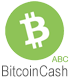
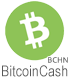
Version 1.6.3
Support Bitcoin Cash BCHN - https://bitcoincashnode.org

Changed region(s): [[0.6571, 0.7, 0.9714, 0.8]]

diff --git a/js/_source/support.js b/js/_source/support.js
@@ -4,7 +4,7 @@
 	* @category    Javascript
 	* @website     https://gourl.io   
 	* @api         https://gourl.io/api.html     
-	* @version     2.2.1
+	* @version     2.2.2
 	*/
 	
 	/**

diff --git a/js/_source/cryptobox.js b/js/_source/cryptobox.js
@@ -4,7 +4,7 @@
 	* @category    Javascript
 	* @website     https://gourl.io
 	* @api         https://gourl.io/api.html
-	* @version     2.2.1
+	* @version     2.2.2
 	*/
 
 	/**

diff --git a/gourl_wordpress.php b/gourl_wordpress.php
@@ -3,7 +3,7 @@
 Plugin Name: 		GoUrl Bitcoin Payment Gateway & Paid Downloads & Membership
 Plugin URI: 		https://gourl.io/bitcoin-wordpress-plugin.html
 Description: 		Official <a href="https://gourl.io">GoUrl.io</a> Bitcoin Payment Gateway for Wordpress. White Label Solution. Provides bitcoin/altcoin payment gateways for - WooCommerce, Paid Memberships Pro, bbPress, Give Donations, Pay-Per-View, Pay-Per-Download, etc. Accept Bitcoin, BitcoinCash, BitcoinSV, Litecoin, Dash, Dogecoin, etc payments online. No Chargebacks, Global, Secure.  All in automatic mode.
-Version: 		1.6.2
+Version: 		1.6.3
 Author: 		GoUrl.io
 Author URI: 		https://gourl.io
 WC requires at least: 	2.1.0
@@ -33,7 +33,7 @@ $dir_arr = wp_upload_dir();
 
 DEFINE('GOURL', 				"gourl");
 DEFINE('GOURL_PREVIEW', 		"gourladmin");
-DEFINE('GOURL_VERSION', 		"1.6.2");
+DEFINE('GOURL_VERSION', 		"1.6.3");
 DEFINE('GOURL_ADMIN', 			admin_url("admin.php?page="));
 DEFINE('GOURL_DIR',  			$dir_arr["basedir"]."/".GOURL.'/');
 DEFINE('GOURL_DIR2', 			$dir_arr["baseurl"]."/".GOURL.'/');

diff --git a/gourl.php b/gourl.php
@@ -1292,9 +1292,9 @@ final class gourlclass
 		foreach ($this->coin_names as $k => $v)
 		{
 			$v2 = ucfirst($v);
-			if ($v2 == "Bitcoincash") $v2 = "Bitcoin Cash ABC";
+			if ($v2 == "Bitcoincash") $v2 = "Bitcoin Cash BCH";
 			if ($v2 == "Bitcoinsv")   $v2 = "Bitcoin SV";
-			if ($k == "BCH") $k .= "/BCHABC";
+			if ($k == "BCH") $k .= "/BCHN";
 			if ($k == "BSV") $k .= "/BCHSV";
 
 			$tmp .= '<tr><th>'.$v2.' '.__('Payments', GOURL).':<br><a target="_blank" href="'.$this->coin_www[$v].'"><img title="'.$v2.' Payment API" src="'.plugins_url('/images/'.$v.'.png', __FILE__).'" border="0"></a></th>';
@@ -8677,5 +8677,5 @@ function gourl_altcoin_btc_price ($altcoin, $interval = 1)
     }
 
 
-    return 0;       
+    return 0;         
 }

diff --git a/includes/cryptobox.class.php b/includes/cryptobox.class.php
@@ -15,7 +15,7 @@
  * @example     https://gourl.io/lib/examples/example_customize_box.php    <----
  * @gitHub  	https://github.com/cryptoapi/Payment-Gateway
  * @license 	Free GPLv2
- * @version     2.2.1
+ * @version     2.2.2
  *
  *
  *  CLASS CRYPTOBOX - LIST OF METHODS:
@@ -82,7 +82,7 @@ if (!CRYPTOBOX_WORDPRESS) { // Pure PHP
 elseif (!defined('ABSPATH')) exit; // Wordpress
 
 
-define("CRYPTOBOX_VERSION", "2.2.1");
+define("CRYPTOBOX_VERSION", "2.2.2");
 
 // GoUrl supported crypto currencies
 define("CRYPTOBOX_COINS", json_encode(array('bitcoin', 'bitcoincash', 'bitcoinsv', 'litecoin', 'dash', 'dogecoin', 'speedcoin', 'reddcoin', 'potcoin', 'feathercoin', 'vertcoin', 'peercoin', 'monetaryunit', 'universalcurrency')));

diff --git a/includes/cryptobox.callback.php b/includes/cryptobox.callback.php
@@ -11,7 +11,7 @@
  * @copyright   2014-2020 Delta Consultants
  * @category    Libraries
  * @website     https://gourl.io
- * @version     2.2.1
+ * @version     2.2.2
  *
  *
  * This file processes call-backs from Cryptocoin Payment Box server when new payment
@@ -150,6 +150,6 @@ else
 	$box_status = "Only POST Data Allowed";
 
 
-	echo $box_status; // don't delete it      
+	echo $box_status; // don't delete it     
 
 ?>

diff --git a/readme.md b/readme.md
@@ -2,7 +2,7 @@
 GoUrl Bitcoin Payment Gateway & Paid Downloads & Membership
 -----------------------------------------------------------  
 
-Version 1.6.2
+Version 1.6.3
 
 
 **GoUrl Official Bitcoin/Altcoin Payment Gateway for Wordpress 3.5 or higher version**
@@ -16,8 +16,8 @@ Accept Bitcoin, BitcoinCash, BitcoinSV, Litecoin, Dash, Dogecoin, Speedcoin, Red
 * Screenshots - [https://gourl.io/bitcoin-wordpress-plugin.html#screenshot](https://gourl.io/bitcoin-wordpress-plugin.html#screenshot)
 * Instruction - [https://tishonator.com/blog/how-to-add-bitcoin-payment-to-your-woocommerce-store](https://tishonator.com/blog/how-to-add-bitcoin-payment-to-your-woocommerce-store)
 * Requires at least: 3.5
-* Tested up to: 5.5
-* Stable Tag: 1.6.2
+* Tested up to: 5.6
+* Stable Tag: 1.6.3
 * License: GNU Version 2 or Any Later Version
   
 
